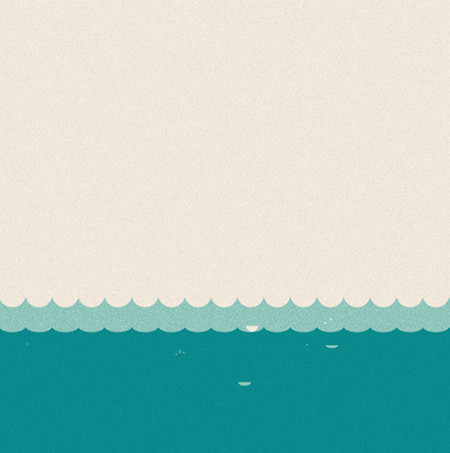
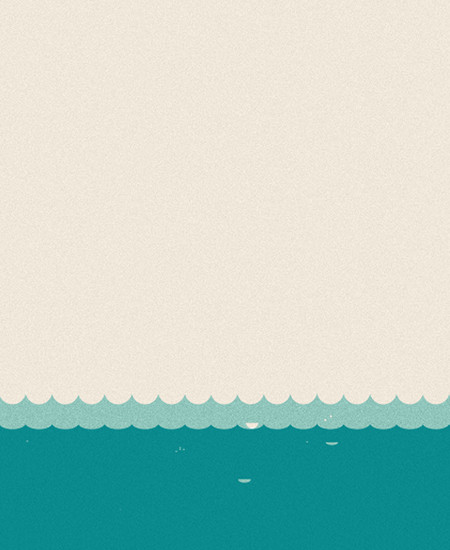
Year 8.

Changed region(s): [[0.0, 0.649, 1.0, 0.8344], [0.5289, 0.8344, 0.56, 0.8962]]

diff --git a/assets/style.css b/assets/style.css
@@ -92,10 +92,10 @@ a { color: #1e908c; text-decoration: none; }
  * Speakers section
  */
 .section.speakers { background: #1e908c url("speakers-bg.jpg"); color: #fff; padding-bottom: 40px; }
-.section.speakers .header { color: #ec553f; }
+.section.speakers .header { padding-top: 100px; color: #ec553f; }
 .section.speakers .header h2 { font-size: 46pt; }
-.section.speakers .o-waves { background: #fdefe1 url("speakers-waves.jpg") center bottom repeat-x; position: absolute; left: 0; top: 0; width: 100%; height: 403px; z-index: 0; }
-.section.speakers .o-floaters { background-image: url("speakers-floaters.png"); background-repeat: no-repeat; background-position: center top; position: absolute; left: -95px; top: 170px; width: 100%; height: 230px; z-index: 0; }
+.section.speakers .o-waves { background: #fdefe1 url("speakers-waves.jpg") center bottom repeat-x; position: absolute; left: 0; top: 0; width: 100%; height: 503px; z-index: 0; }
+.section.speakers .o-floaters { background-image: url("speakers-floaters.png"); background-repeat: no-repeat; background-position: center top; position: absolute; left: -95px; top: 270px; width: 100%; height: 230px; z-index: 0; }
 @media all and (-webkit-min-device-pixel-ratio: 1.5) { .section.speakers .o-floaters { background-image: url("speakers-floaters@2x.png"); -webkit-background-size: 1167px 230px; -moz-background-size: 1167px 230px; background-size: 1167px 230px; }
 }
 /* ----------------------------------------------------------------------------
@@ -172,8 +172,22 @@ a { color: #1e908c; text-decoration: none; }
 /* ----------------------------------------------------------------------------
  * About
  */
-.section.about { padding-bottom: 400px; }
-.section.about .header { color: #1e908c; }
+.section.about { background: #93c8be; padding-bottom: 400px; }
+.section.about .header { color: #fff; }
 .section.location { padding-bottom: 600px; background: #d2b69e; }
 .section.location .header { color: #fff; text-shadow: 0 1px 1px rgba(0,0,0,0.2); }
+/* ----------------------------------------------------------------------------
+ * Info
+ */
+.section.info { background: #e5a141; color: #fff; text-shadow: 0 1px 1px rgba(0,0,0,0.2); padding: 50px 0 0 0; text-align: center; overflow: visible; }
+.section.info .in { max-width: 960px; margin: 0 auto; zoom: 1; }
+.section.info .in:before, .section.info .in:after { content: ""; display: table; }
+.section.info .in:after { clear: both; }
+.section.info .left { max-width: 600px; text-align: center; margin: 0 auto; }
+.section.info .body { font-size: 14pt; }
+.section.info .body h3 { font-family: adelle, sans-serif; font-weight: 900; font-size: 22pt; }
+.section.info .right { padding-top: 30px; margin: 0 auto; margin-bottom: -75px; }
+.section.info .btn { display: block; margin: 0 auto; font-size: 12pt; font-weight: bold; text-align: center; background: #bcc58e; -webkit-border-radius: 4px; border-radius: 4px; color: #fff; width: 150px; height: 150px; -webkit-border-radius: 75px; border-radius: 75px; line-height: 150px; position: relative; z-index: 10; -webkit-box-shadow: 0 0 0 1px rgba(0,0,0,0.1), 0 0 0 4px rgba(0,0,0,0.1); box-shadow: 0 0 0 1px rgba(0,0,0,0.1), 0 0 0 4px rgba(0,0,0,0.1); }
+.section.info .btn span { display: inline-block; width: 110px; line-height: 18pt; vertical-align: middle; }
+.section.info .btn span b { display: block; font-size: 1.8em; text-transform: uppercase; }
 

diff --git a/index.html b/index.html
@@ -82,7 +82,7 @@
           <a href="#tickets">Tickets</a>
         </li>
         <li>
-          <a href="#Location">Location</a>
+          <a href="#location">Location</a>
         </li>
         <li>
           <a href="#about">About</a>
@@ -95,6 +95,21 @@
       </div>
     </div>
   </nav>
+
+  <!-- ============================================================================ -->
+
+  <section class="section info" id="info">
+    <div class="in">
+      <div class="left body">
+        <h3>Now on our 8th year!</h3>
+        <p>Lorem ipsum dolor sit amet, consetetur sadipscing elitr, sed diam nonumy eirmod
+        tempor invidunt ut labore et dolore magna aliquyam.</p>
+      </div>
+      <div class="right">
+        <a class="btn" href="#tickets"><span><b>Buy</b> tickets now</span></a>
+      </div>
+    </div>
+  </section>
 
   <!-- ============================================================================ -->
 
@@ -260,6 +275,12 @@
     <header class="header">
       <h2>Location</h2>
     </header>
+    <p>This year's event will be held at the PICC plenary hall.</p>
+    <ul>
+      <li><strong>Better seats.</strong> Seats will be better, and they will be nicer and stuff.</li>
+      <li><strong>Better acoustics.</strong> Acoustics will be better, and they will be nicer and stuff.</li>
+      <li><strong>Better location.</strong> location will be better, and they will be nicer and stuff.</li>
+    </ul>
   </section>
 
   <!-- ============================================================================ -->
@@ -268,6 +289,20 @@
     <header class="header">
       <h2>About Graphika Manila</h2>
     </header>
+
+    <p>GRAPHIKA MANILA is the premiere multimedia and graphic design event in
+    the Philippines. Since 2006, Graphika Manila has attracted over 10,000
+    design students and professionals and is now hailed as one of the most
+    influential multimedia events in the country.</p>
+
+    <p>As it celebrates its seventh year running, Graphika Manila once more
+    brings together Manila’s creative minds to listen to inspiring stories and
+    celebrate the works of the best multimedia and graphic designers from the
+    Philippines and from around the globe.</p>
+
+    <p>Simply put it as a creative symposium with speakers from different
+    fields of the creative arts. The conference focuses on the creative side of
+    design rather than technology.</p>
   </section>
 
   <!-- ============================================================================ -->

diff --git a/assets/_about.css b/assets/_about.css
@@ -2,10 +2,11 @@
  * About
  */
 .section.about {
+  background: #93c8be;
   padding-bottom: 400px;
 }
 .section.about .header {
-  color: #1e908c;
+  color: #fff;
 }
 .section.location {
   padding-bottom: 600px;
@@ -14,5 +15,78 @@
 .section.location .header {
   color: #fff;
   text-shadow: 0 1px 1px rgba(0,0,0,0.2);
+}
+/* ----------------------------------------------------------------------------
+ * Info
+ */
+.section.info {
+  background: #e5a141;
+  color: #fff;
+  text-shadow: 0 1px 1px rgba(0,0,0,0.2);
+  padding: 50px 0 0 0;
+  text-align: center;
+  overflow: visible;
+}
+.section.info .in {
+  max-width: 960px;
+  margin: 0 auto;
+  zoom: 1;
+}
+.section.info .in:before,
+.section.info .in:after {
+  content: "";
+  display: table;
+}
+.section.info .in:after {
+  clear: both;
+}
+.section.info .left {
+  max-width: 600px;
+  text-align: center;
+  margin: 0 auto;
+}
+.section.info .body {
+  font-size: 14pt;
+}
+.section.info .body h3 {
+  font-family: adelle, sans-serif;
+  font-weight: 900;
+  font-size: 22pt;
+}
+.section.info .right {
+  padding-top: 30px;
+  margin: 0 auto;
+  margin-bottom: -75px;
+}
+.section.info .btn {
+  display: block;
+  margin: 0 auto;
+  font-size: 12pt;
+  font-weight: bold;
+  text-align: center;
+  background: #bcc58e;
+  -webkit-border-radius: 4px;
+  border-radius: 4px;
+  color: #fff;
+  width: 150px;
+  height: 150px;
+  -webkit-border-radius: 75px;
+  border-radius: 75px;
+  line-height: 150px;
+  position: relative;
+  z-index: 10;
+  -webkit-box-shadow: 0 0 0 1px rgba(0,0,0,0.1), 0 0 0 4px rgba(0,0,0,0.1);
+  box-shadow: 0 0 0 1px rgba(0,0,0,0.1), 0 0 0 4px rgba(0,0,0,0.1);
+}
+.section.info .btn span {
+  display: inline-block;
+  width: 110px;
+  line-height: 18pt;
+  vertical-align: middle;
+}
+.section.info .btn span b {
+  display: block;
+  font-size: 1.8em;
+  text-transform: uppercase;
 }
 

diff --git a/assets/_speakers.css b/assets/_speakers.css
@@ -7,6 +7,7 @@
   padding-bottom: 40px;
 }
 .section.speakers .header {
+  padding-top: 100px;
   color: #ec553f;
 }
 .section.speakers .header h2 {
@@ -18,7 +19,7 @@
   left: 0;
   top: 0;
   width: 100%;
-  height: 403px;
+  height: 503px;
   z-index: 0;
 }
 .section.speakers .o-floaters {
@@ -27,7 +28,7 @@
   background-position: center top;
   position: absolute;
   left: -95px;
-  top: 170px;
+  top: 270px;
   width: 100%;
   height: 230px;
   z-index: 0;
